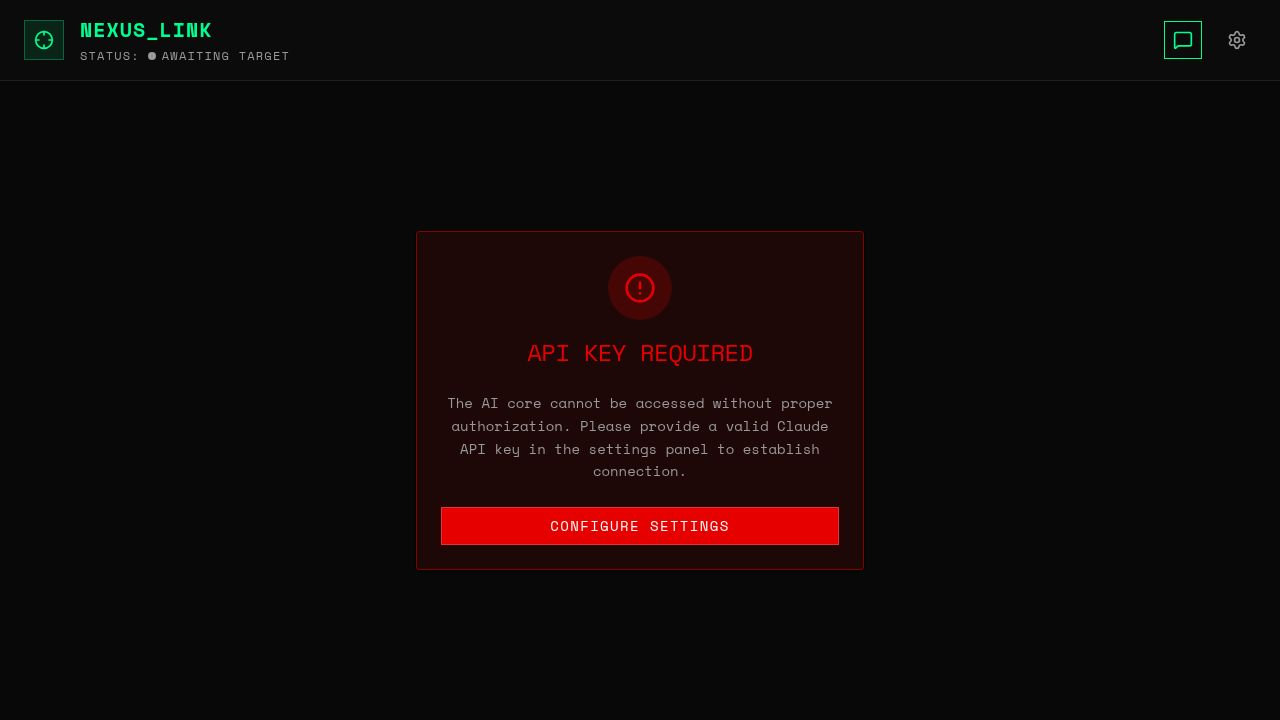
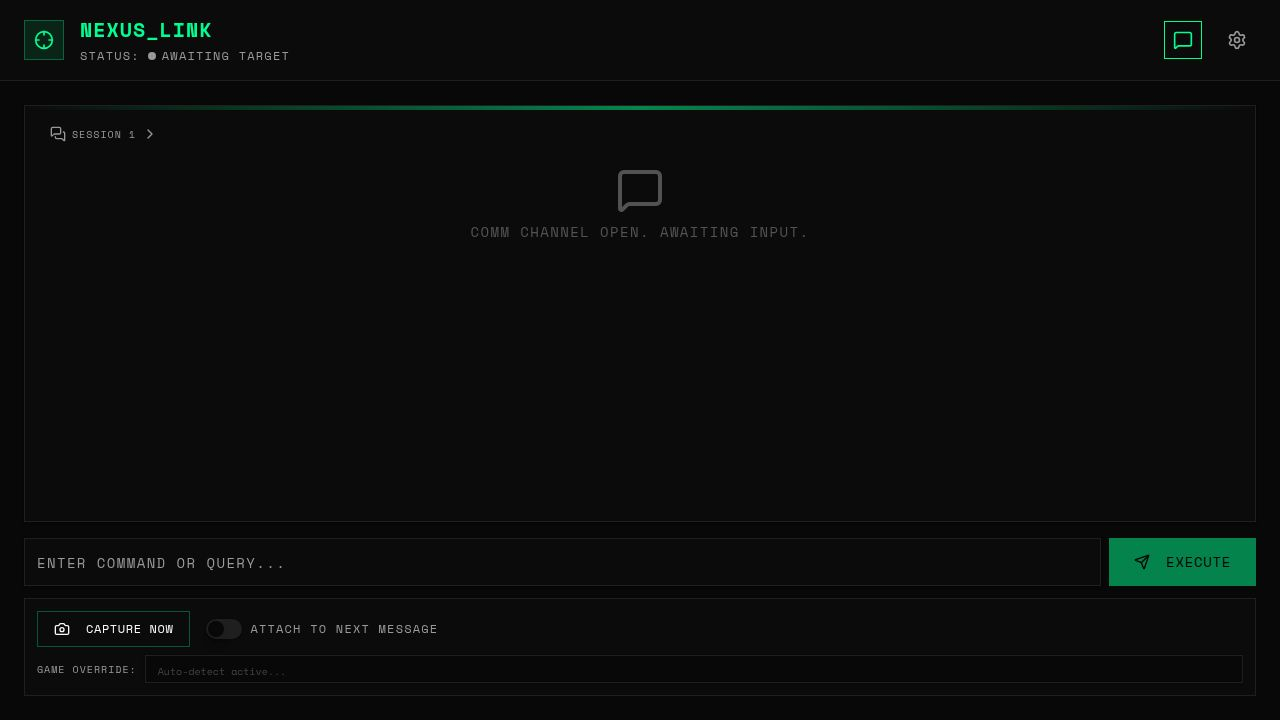
Show past conversation history in the chat when you reopen the app
## Task
Task #13 — Pre-populate the chat panel with messages from the last saved
session on app launch, and show a visual divider marking where the previous
session ended and new messages begin.

## What changed

### artifacts/gaming-companion/src/context/chat-context.tsx
- Extended the `Message` type's `role` field to include `"divider"` as a valid
  value alongside `"user"` and `"assistant"`

### artifacts/gaming-companion/src/pages/home.tsx
- Added a `historyLoadedRef` (a `useRef<Set<string>>`) to track which sessions
  have already had their initial history snapshot shown — prevents re-inserting
  a divider on every data refresh
- Updated the `sessionMessagesData` effect: on the first load of a session that
  already has messages (i.e. a returning user), appends a "divider" message
  after the historical messages containing the current date + time
- Updated the messages render loop to detect `role === "divider"` and render it
  as a subtle horizontal rule with the text "session resumed · <date> · <time>"
  instead of a chat bubble
- All other message rendering is unchanged; `handleClearSession` already calls
  `setMessages([])` so the divider is wiped along with the rest

## Behaviour
- Fresh sessions (no prior messages): empty state shown as before, no divider
- Returning to a session with history: past messages visible, divider at the
  bottom marking where the new session begins
- Switching sessions: correct messages shown per-session, divider only on first
[…]

diff --git a/artifacts/gaming-companion/src/pages/home.tsx b/artifacts/gaming-companion/src/pages/home.tsx
@@ -45,6 +45,7 @@ export default function Home() {
   const [renamingId, setRenamingId] = useState<string | null>(null);
   const [renameValue, setRenameValue] = useState("");
   const [sessionInitialized, setSessionInitialized] = useState(false);
+  const historyLoadedRef = useRef<Set<string>>(new Set());
   const [alwaysOnTop, setAlwaysOnTop] = useState(false);
 
   const isElectron = !!(window as Window & { electronAPI?: { isElectron?: boolean } }).electronAPI?.isElectron;
@@ -135,7 +136,7 @@ export default function Home() {
   }, [isLoadingSessions, sessions]);
 
   useEffect(() => {
-    if (!sessionMessagesData) return;
+    if (!sessionMessagesData || !activeSessionId) return;
     const mapped = sessionMessagesData.messages.map((m) => ({
       id: m.id,
       role: m.role as "user" | "assistant",
@@ -143,8 +144,24 @@ export default function Home() {
       timestamp: m.timestamp,
       screenshot: m.screenshot ?? null,
     }));
-    setMessages(mapped);
-  }, [sessionMessagesData]);
+
+    const alreadyLoaded = historyLoadedRef.current.has(activeSessionId);
+    if (!alreadyLoaded && mapped.length > 0) {
+      historyLoadedRef.current.add(activeSessionId);
+      setMessages([
+        ...mapped,
+        {
+          id: `divider-${activeSessionId}-${Date.now()}`,
+          role: "divider" as const,
+          content: new Date().toLocaleDateString([], { month: "short", day: "numeric", year: "numeric" }),
+          timestamp: new Date().toLocaleTimeString([], { hour: "2-digit", minute: "2-digit" }),
+          screenshot: null,
+        },
+      ]);
+    } else {
+      setMessages(mapped);
+    }
+  }, [sessionMessagesData, activeSessionId]);
 
   const toDataUrl = (base64: string) =>
     base64.startsWith("data:") ? base64 : `data:image/png;base64,${base64}`;
@@ -541,45 +558,59 @@ export default function Home() {
               <p className="font-mono text-sm tracking-widest uppercase">Comm channel open. Awaiting input.</p>
             </div>
           ) : (
-            messages.map((msg) => (
-              <div
-                key={msg.id}
-                className={`flex flex-col max-w-[85%] ${msg.role === "user" ? "ml-auto items-end" : "mr-auto items-start"}`}
-              >
-                <div className={`flex items-center gap-2 mb-1 ${msg.role === "user" ? "flex-row-reverse" : "flex-row"}`}>
-                  <span className="font-mono text-xs font-bold uppercase text-primary/80">
-                    {msg.role === "user" ? "OPERATOR" : "AI_CORE"}
-                  </span>
-                  <span className="font-mono text-[10px] text-muted-foreground/60">{msg.timestamp}</span>
-                </div>
+            messages.map((msg) => {
+              if (msg.role === "divider") {
+                return (
+                  <div key={msg.id} className="flex items-center gap-3 py-1">
+                    <div className="flex-1 h-px bg-border/50" />
+                    <span className="font-mono text-[9px] uppercase tracking-widest text-muted-foreground/40 whitespace-nowrap">
+                      session resumed · {msg.content} · {msg.timestamp}
+                    </span>
+                    <div className="flex-1 h-px bg-border/50" />
+                  </div>
+                );
+              }
 
-                <div className={`p-4 font-mono text-sm leading-relaxed border ${
-                  msg.role === "user"
-                    ? "bg-primary/5 border-primary/20 text-foreground"
-                    : "bg-secondary/50 border-border text-foreground"
-                }`}>
-                  {msg.screenshot && (
-                    <Dialog>
-                      <DialogTrigger asChild>
-                        <div className="mb-3 relative group cursor-pointer border border-border overflow-hidden">
-                          <img src={msg.screenshot} alt="Captured game screenshot" className="w-full max-w-sm h-auto opacity-80 group-hover:opacity-100 transition-opacity" />
-                          <div className="absolute inset-0 bg-background/50 flex items-center justify-center opacity-0 group-hover:opacity-100 transition-opacity">
-                            <Maximize2 className="w-6 h-6 text-primary" />
+              return (
+                <div
+                  key={msg.id}
+                  className={`flex flex-col max-w-[85%] ${msg.role === "user" ? "ml-auto items-end" : "mr-auto items-start"}`}
+                >
+                  <div className={`flex items-center gap-2 mb-1 ${msg.role === "user" ? "flex-row-reverse" : "flex-row"}`}>
+                    <span className="font-mono text-xs font-bold uppercase text-primary/80">
+                      {msg.role === "user" ? "OPERATOR" : "AI_CORE"}
+                    </span>
+                    <span className="font-mono text-[10px] text-muted-foreground/60">{msg.timestamp}</span>
+                  </div>
+
+                  <div className={`p-4 font-mono text-sm leading-relaxed border ${
+                    msg.role === "user"
+                      ? "bg-primary/5 border-primary/20 text-foreground"
+                      : "bg-secondary/50 border-border text-foreground"
+                  }`}>
+                    {msg.screenshot && (
+                      <Dialog>
+                        <DialogTrigger asChild>
+                          <div className="mb-3 relative group cursor-pointer border border-border overflow-hidden">
+                            <img src={msg.screenshot} alt="Captured game screenshot" className="w-full max-w-sm h-auto opacity-80 group-hover:opacity-100 transition-opacity" />
+                            <div className="absolute inset-0 bg-background/50 flex items-center justify-center opacity-0 group-hover:opacity-100 transition-opacity">
+                              <Maximize2 className="w-6 h-6 text-primary" />
+                            </div>
                           </div>
-                        </div>
-                      </DialogTrigger>
-                      <DialogContent className="max-w-6xl w-[90vw] h-[90vh] p-0 bg-background border-primary/30 rounded-none flex items-center justify-center">
-                        <VisuallyHidden>
-                          <DialogTitle>Screenshot Details</DialogTitle>
-                        </VisuallyHidden>
-                        <img src={msg.screenshot} alt="Captured game screenshot" className="max-w-full max-h-full object-contain" />
-                      </DialogContent>
-                    </Dialog>
-                  )}
-                  <div className="whitespace-pre-wrap">{msg.content}</div>
+                        </DialogTrigger>
+                        <DialogContent className="max-w-6xl w-[90vw] h-[90vh] p-0 bg-background border-primary/30 rounded-none flex items-center justify-center">
+                          <VisuallyHidden>
+                            <DialogTitle>Screenshot Details</DialogTitle>
+                          </VisuallyHidden>
+                          <img src={msg.screenshot} alt="Captured game screenshot" className="max-w-full max-h-full object-contain" />
+                        </DialogContent>
+                      </Dialog>
+                    )}
+                    <div className="whitespace-pre-wrap">{msg.content}</div>
+                  </div>
                 </div>
-              </div>
-            ))
+              );
+            })
           )}
 
           {sendMutation.isPending && (

diff --git a/artifacts/gaming-companion/src/context/chat-context.tsx b/artifacts/gaming-companion/src/context/chat-context.tsx
@@ -2,7 +2,7 @@ import { createContext, useContext, useState, ReactNode } from "react";
 
 export interface Message {
   id: string;
-  role: "user" | "assistant";
+  role: "user" | "assistant" | "divider";
   content: string;
   timestamp: string;
   screenshot?: string | null;